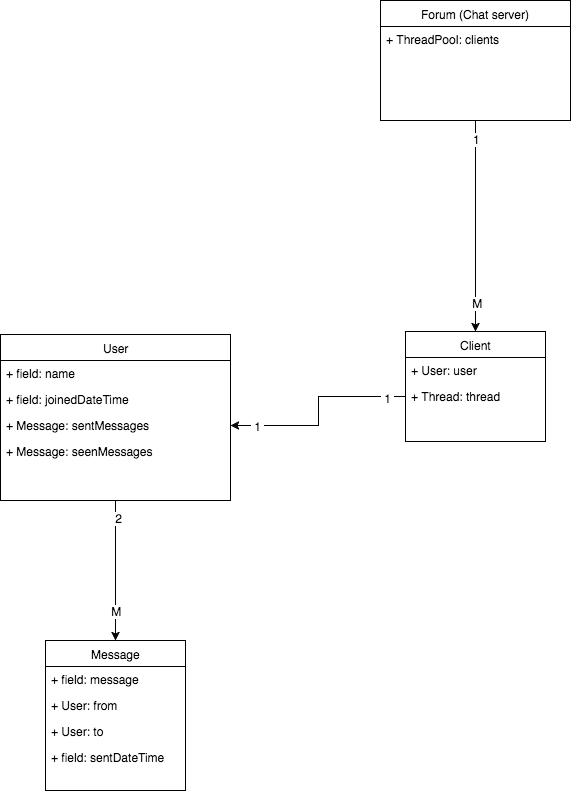
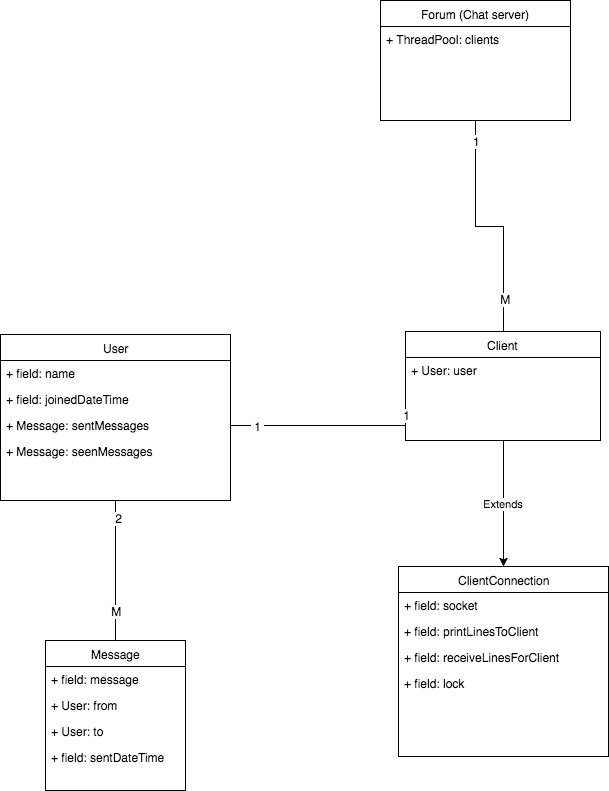
Updated CA1 -> Readme and ClientsService

diff --git a/CA/CA1/SOLUTION/CHATSERVER/src/main/java/domain/Client.java b/CA/CA1/SOLUTION/CHATSERVER/src/main/java/domain/Client.java
@@ -3,7 +3,7 @@ package domain;
 /**
  * Created by scheldejonas on 17/04/2017.
  */
-public class Client {
+public abstract class Client {
     private User user = new User();
 
     public Client() {

diff --git a/CA/CA1/SOLUTION/README.md b/CA/CA1/SOLUTION/README.md
@@ -1,8 +1,127 @@
 # CA1 | Solution | Jonas Schelde
 
-[Here](https://github.com/CphBusCosSem3/Exercises/tree/master/CA/CA1) is the teachers assignment repo
+[Here](https://github.com/CphBusCosSem3/Exercises/tree/master/CA/CA1) is the teachers assignment github repo
 
 ## Chat protocol
+
+[Here](https://github.com/scheldejonas/Exercises/blob/master/CA/CA1/protocol.md) is the layed out school class decided protocol.
+
+#### Design choices
+
+- The protocol, is built as an abstract class for having the main intepretations of commands completly the same on both clients as server.
+
+- The abstract protocol, looks like this then:
+
+- ```java
+  package service;
+
+  /**
+   * Created by scheldejonas on 17/04/2017.
+   */
+  public abstract class ChatProtocolService {
+
+      public abstract ServerCommand analyseServerLine(String newLine);
+
+      public abstract ClientCommand analyseClientLine(String newLine);
+
+      enum ServerCommand {
+          SEND_MESSAGE_TO_FORUM(1)
+          ,SEND_MESSAGE_TO_ONE_USER(2)
+          ,LOGIN_USER_TO_FORUM(3)
+          ;
+
+          private final int id;
+
+          ServerCommand(int id) {
+              this.id = id;
+          }
+
+          public int getId() {
+              return id;
+          }
+      }
+
+      enum ClientCommand {
+          ADD_MESSAGE(1)
+          ,ADD_PRIVATE_MESSAGE(2)
+          ,UPDATE_LIST_OF_ACTIVE_USERS(3)
+          ,INFORM_ATTEMPTED_USERNAME_ON_LOGIN_WAS_ALREADY_USED(4)
+          ,REMOVE_USER_FROM_ACTIVE_USERS(5)
+          ;
+
+          private final int id;
+
+          ClientCommand(int id) {
+              this.id = id;
+          }
+
+          public int getId() {
+              return id;
+          }
+      }
+  }
+  ```
+
+- Mainly it is used as a intepreter or translater of the text being sent between clients and servers.
+
+- From what happens after, is up to the controllers and service objects, of the data being passed around, to understand and distribute.
+
+  #### Server interpretation of the protocol
+
+- ```java
+  package service;
+
+  /**
+   * Created by scheldejonas on 17/04/2017.
+   */
+  public class ChatProtocolServiceImpl extends ChatProtocolService {
+
+      private static final ChatProtocolServiceImpl singleton = new ChatProtocolServiceImpl();
+
+      private ChatProtocolServiceImpl() {
+      }
+
+      public static ChatProtocolServiceImpl getSingleton() {
+          return singleton;
+      }
+
+      @Override
+      public ServerCommand analyseServerLine(String newLine) {
+          String[] newTextLineInArray = newLine.split("#");
+          System.out.println("...Starting to analyse new received textline from client on server: " + newLine);
+          if (newTextLineInArray[0].equals("LOGIN")) {
+              return ServerCommand.LOGIN_USER_TO_FORUM;
+          }
+          if (newTextLineInArray[0].equals("MSG")) {
+              if (newTextLineInArray[1].equals("ALL")) {
+                  return ServerCommand.SEND_MESSAGE_TO_FORUM;
+              }
+              if (!newTextLineInArray[1].equals("ALL")) {
+                  return ServerCommand.SEND_MESSAGE_TO_ONE_USER;
+              }
+          }
+          return null;
+      }
+
+      @Override
+      public ClientCommand analyseClientLine(String newLine) {
+          return null;
+      }
+
+  }
+  ```
+
+- From this, the server now, clear have the correct command to follow, upon it's clients.
+
+  #### Client interpretation of the protocol
+
+- ```
+
+  ```
+
+- ?
+
+## Chat Server
 
 #### Design choices
 
@@ -10,30 +129,25 @@
 - Also to have a way to overview, what is possible in terms of method, on the client, as to the service.
 - Then of course there is just different kinds of implementations on the server and the client.
 - The design is created with top-down approach, in the way; There is a server setup and a client setup.
-- To this top-down structure design, each setup, both server and client, is seperated with a kind of industri standard package pattern named like this;
-- Here is our Data modal:
+- To this top-down structure design, each setup, both server and client, is seperated with a kind of industri standard package pattern named like this:
+  - Web (here usually the .jsp files or other html files is placed to be used before responding to the user)
+  - Controller (directs the requests and controls the threads overview)
+  - Service (services the entities or the handles the data through the protocol for example, to be directed back to the controller or directly to be persisted for longer saving in the db, through dao)
+  - Dao (this controls data acces to the database, keeping all data sent and recieved from database persistent)
+  - Database (the relational table base with data saved)
+- Here is our Data modal, as initiated database inside the java chatserver:
 
 ![alt tag](images/chat_server_domain_model.png)
 
-1. Web (here usually the .jsp files or other html files is placed to be used before responding to the user)
-2. Controller (directs the requests and controls the threads overview)
-3. Service (services the entities or the handles the data through the protocol for example, to be directed back to the controller or directly to be persisted for longer saving in the db, through dao)
-4. Dao (this controls data acces to the database, keeping all data sent and recieved from database persistent)
-5. Database (the relational table base with data saved)
 
-Therefore threads is controlled as a seperate thread named ClientThread in the service layer. This i believe is simple for other developers to understand and build on top of.
 
-## Chat server
-
-We have with the same mentioned structure above used it to create the client.
-
-In the client we did the same structure and of course used the same ChatProtocol interface.
-
-The different part on client to notice is the view layer (package) where the part of making it able to be communicated with, through 
-keyboard scanning in console. This is therefore the NON-GUI client.
-
-The Swing GUI client, is actually made in design, but not implemented yet to the controller, but this should be extremly simple and 
-straight forward, if nescessary at exam.
+- The folder structure of the server application, is then looking like this.
+- ![alt tag](images/folder_structure_of_chat_server.png)
+- ```root/ChatServer```  is containing the main method, that starts the ChatServerSocket as an thread.
+- ```controller/``` folder is to have the ingoing new connection handeling to the server. ChatServerSocket, can be initiated and binded to a port. When this is done, a while loop with a reentrantlock is placed in the run method, from the implementation for Runnable.
+- ```service/``` folder is then where ```ChatServerSocket``` sends all the new connection down, and get's them mounted to a ClientConnection object, with the savings and start of a runnable while loop for receiving text lines, from the open socket connection. This is for singleton initiated classes
+- ```dao/``` folder is then to have all the initiated Messages, Users, Clients as ClientConnections saved, either as active or disconnected clients, in the ```Clients``` class.
+- ```domain/``` is the entity's of the data model layed out. And initiated through the Clients "database" in ```dao```  package.
 
 ## Web server
 
